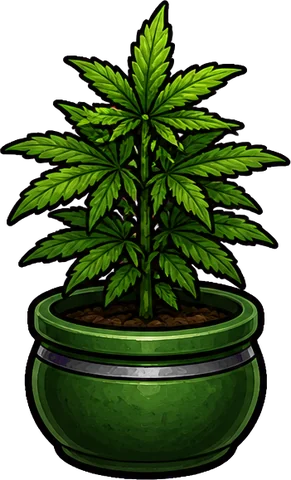
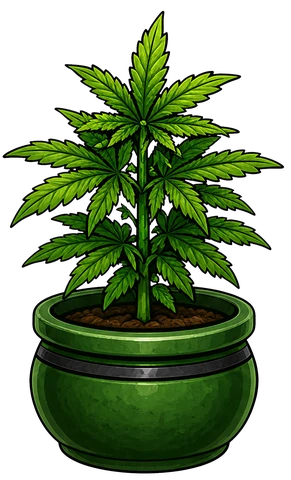
Repair V6.5 plant transparency

diff --git a/README.md b/README.md
@@ -8,6 +8,6 @@ Public hosted artwork for the PotatoPcTi_Super StreamElements widget.
 https://raw.githubusercontent.com/cmwashum-dot/potatopcti-super-widget-art/main/HostedArt
 ```
 
-[Test the idle character sprite](https://raw.githubusercontent.com/cmwashum-dot/potatopcti-super-widget-art/main/HostedArt/v5/assets/character/idle/idle_01.webp?v=6.4.0)
+[Test the idle character sprite](https://raw.githubusercontent.com/cmwashum-dot/potatopcti-super-widget-art/main/HostedArt/v5/assets/character/idle/idle_01.webp?v=6.5.0)
 
-V6.4 contains 37 optimized WebP assets. The scenery couch has a repaired solid interior alpha matte, while the verified V6.3 walk cycle and protected sprite swapping remain unchanged. Keep the repository public and preserve the existing folder structure so StreamElements can load the artwork.
+V6.5 contains 37 optimized WebP assets. The plant now has solid leaf and pot surfaces with natural branch gaps, while the repaired V6.4 couch, verified walk cycle, and protected sprite swapping remain unchanged. Keep the repository public and preserve the existing folder structure so StreamElements can load the artwork.